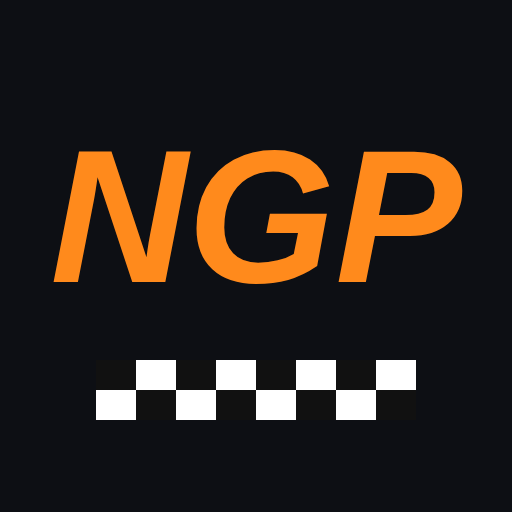
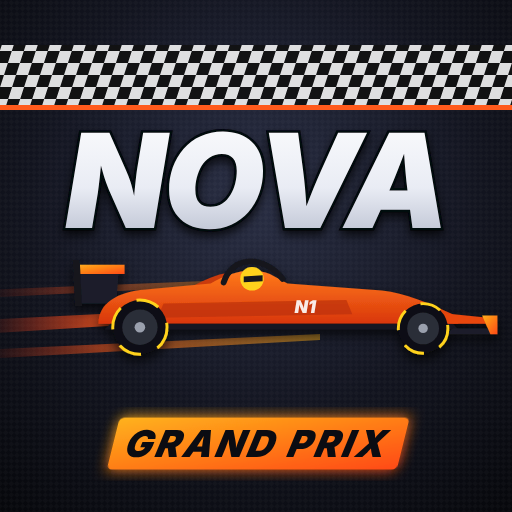
Nuova icona del gioco (stile gioco di corse) anche per la schermata Home dell'iPhone
Claude-Session: https://claude.ai/code/session_016phwD3cgZnd99vEJWauvW2

diff --git a/f1-racing/index.html b/f1-racing/index.html
@@ -8,7 +8,8 @@
 <meta name="apple-mobile-web-app-status-bar-style" content="black-translucent">
 <meta name="apple-mobile-web-app-title" content="Nova GP">
 <link rel="manifest" href="manifest.webmanifest">
-<link rel="apple-touch-icon" href="icon-192.png">
+<link rel="apple-touch-icon" href="icon-180.png">
+<link rel="icon" type="image/png" href="icon-192.png">
 <title>Nova Grand Prix</title>
 <link rel="preconnect" href="https://fonts.googleapis.com">
 <link rel="preconnect" href="https://fonts.gstatic.com" crossorigin>
